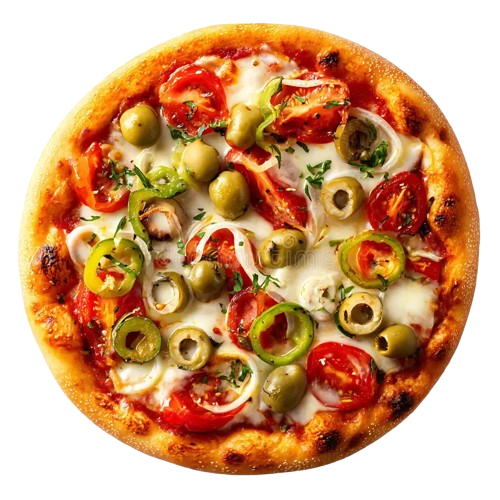
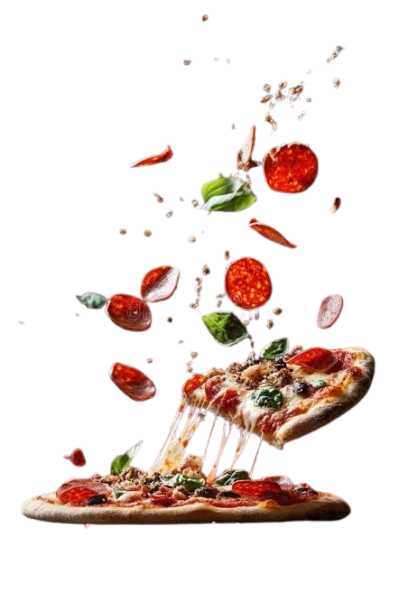
Update hero to new pizza.png (192KB)

diff --git a/src/components/Hero.jsx b/src/components/Hero.jsx
@@ -119,7 +119,7 @@ export default function Hero() {
 
                 {/* Clean Transparent Pizza Image */}
                 <motion.img
-                  src="/pizza.png"
+                  src="/pizza.png?v=2"
                   alt="Delicious Cheesy Artisan Pizza"
                   animate={
                     isHovered
